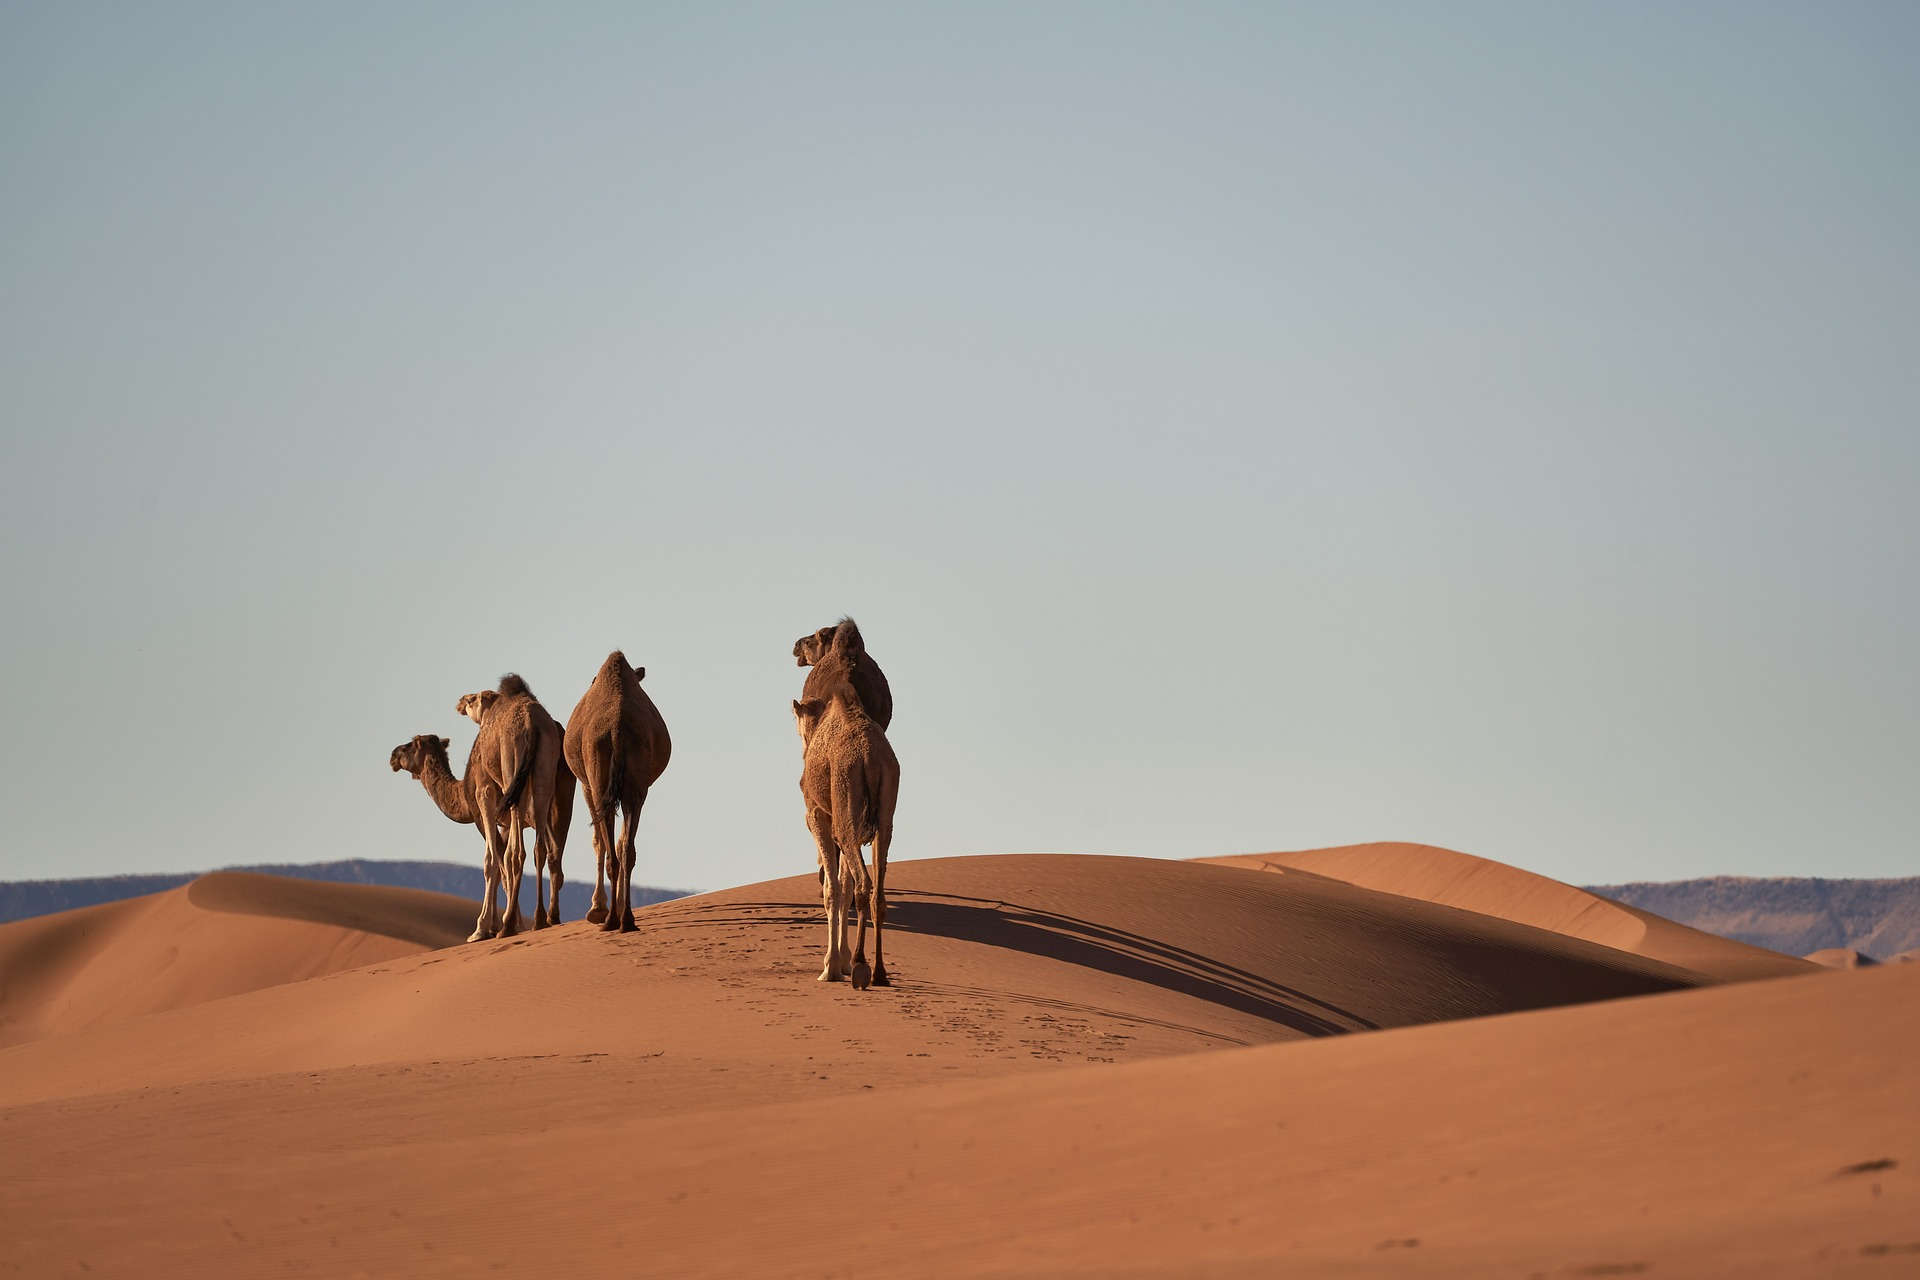
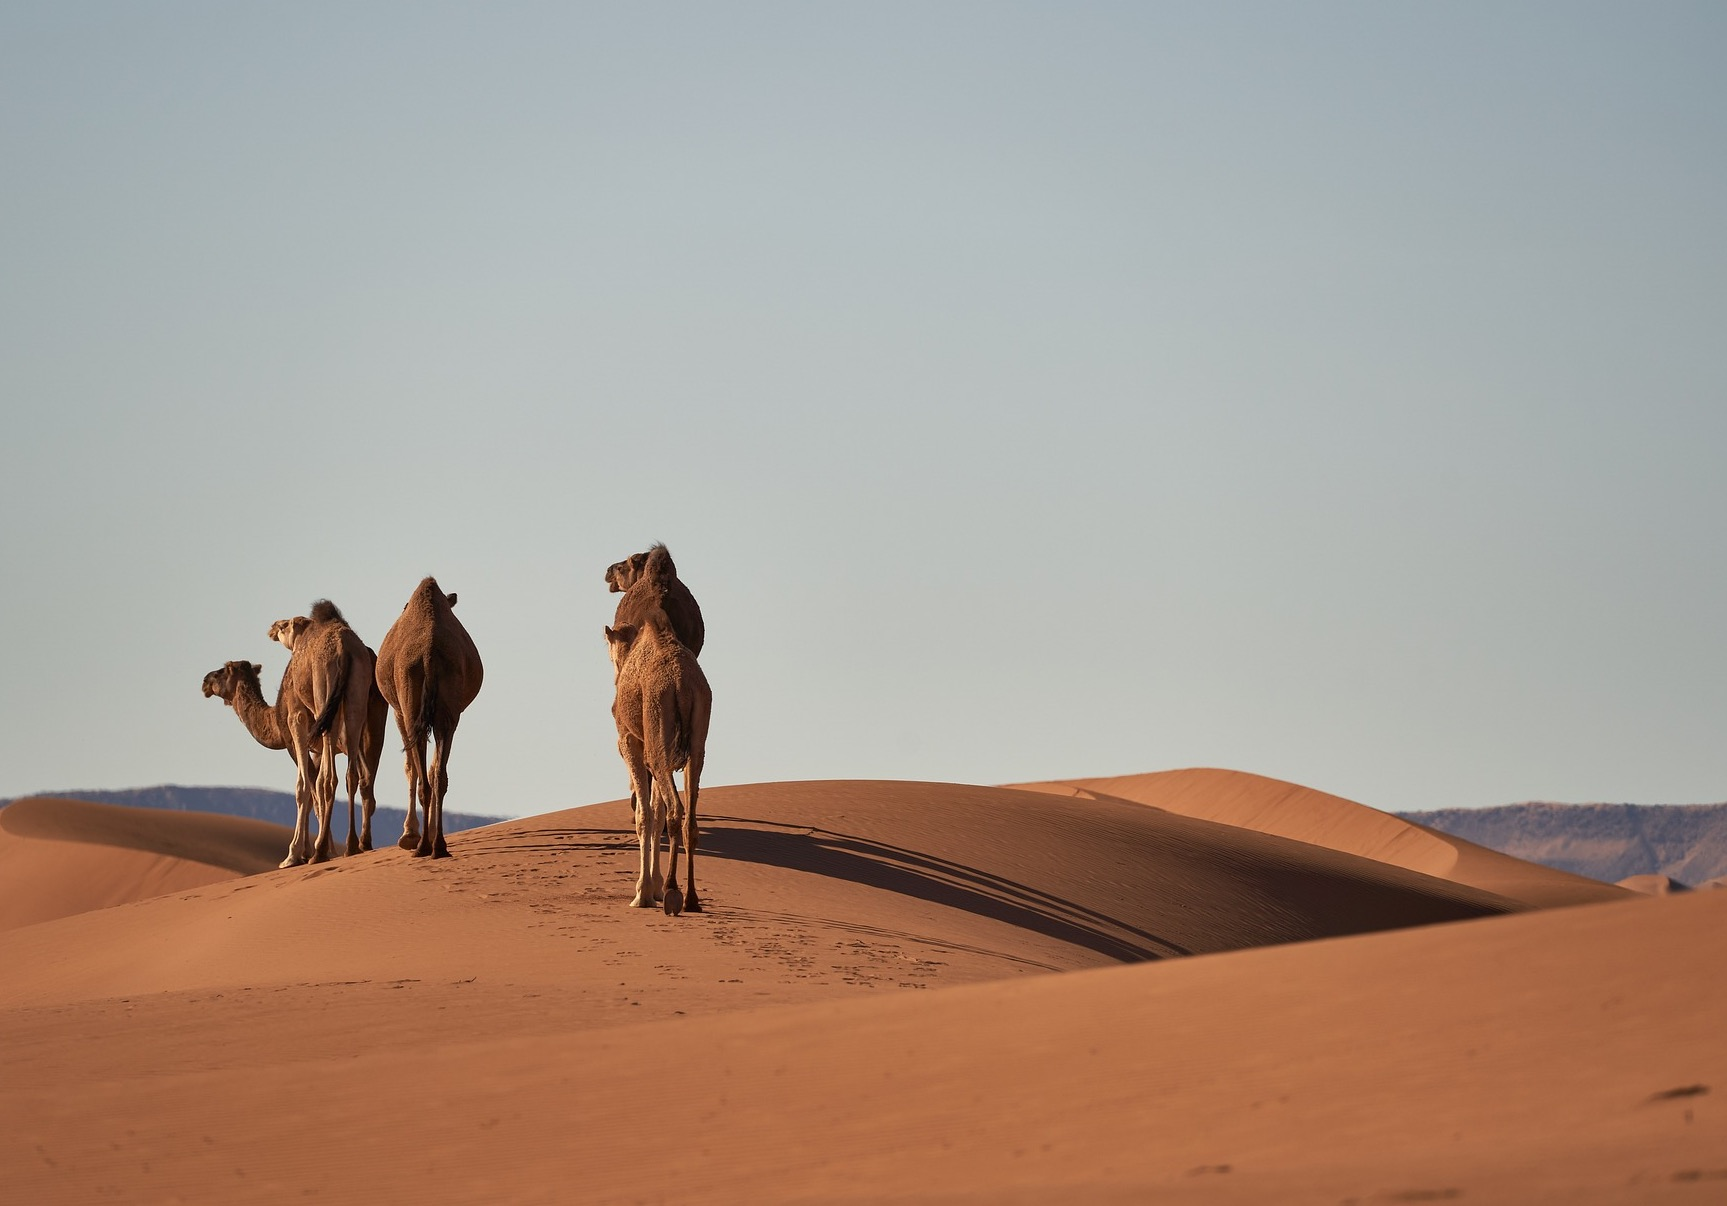
styling tweaks

Changed region(s): [[0.0, 0.4295, 1.0, 0.8284], [0.9514, 0.8897, 1.0, 0.9204]]

diff --git a/src/App.tsx b/src/App.tsx
@@ -68,7 +68,7 @@ function Demo1() {
 function Demo2() {
   return (
     <>
-      <img className="background" src="./demo2/desert-1101123_1920.jpg" />
+      <img className="background" src="./demo2/desert-7162926_1920.jpg" />
 
       <Divz
         className="demo2"
@@ -82,7 +82,7 @@ function Demo2() {
         </div>
 
         <div>
-          <img src="./demo2/desert-1916882_1920.jpg" />
+          <img src="./demo2/desert-7162926_1920.jpg" />
         </div>
 
         <div>

diff --git a/src/App.css b/src/App.css
@@ -81,7 +81,7 @@
     }
   }
   @media (max-height: 480px) {
-    padding: 5px;
+    padding: 10px;
     small {
       display: none;
     }
@@ -103,10 +103,11 @@
 }
 
 img.background {
-  position: absolute;
+  position: fixed;
   width: 100%;
   height: 100%;
   object-fit: cover;
+
   filter: blur(60px);
   opacity: 0;
   animation: fade-in 0.3s forwards;

diff --git a/src/lib/Divz/components/DivzNavButtons.css b/src/lib/Divz/components/DivzNavButtons.css
@@ -10,8 +10,8 @@
   top: calc(100% - 120px);
   left: 50%;
   @media (max-height: 480px) {
-    top: calc(100% - 105px);
-    transform: scale(0.7);
+    top: calc(100% - 100px);
+    transform: scale(0.65);
   }
 }
 
